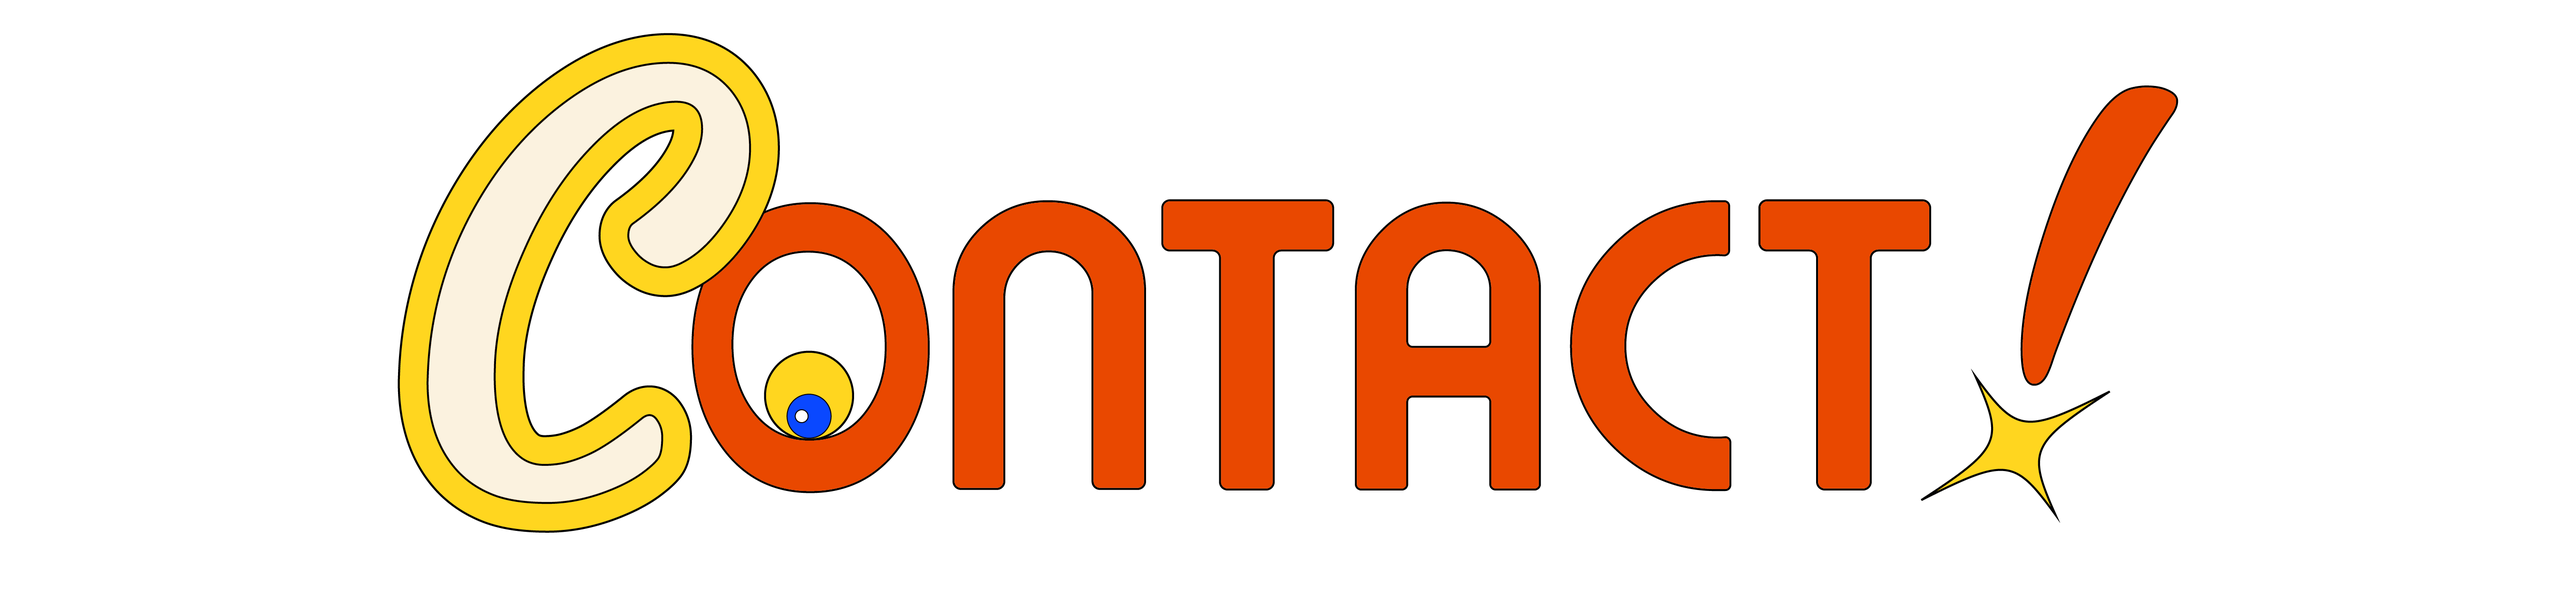
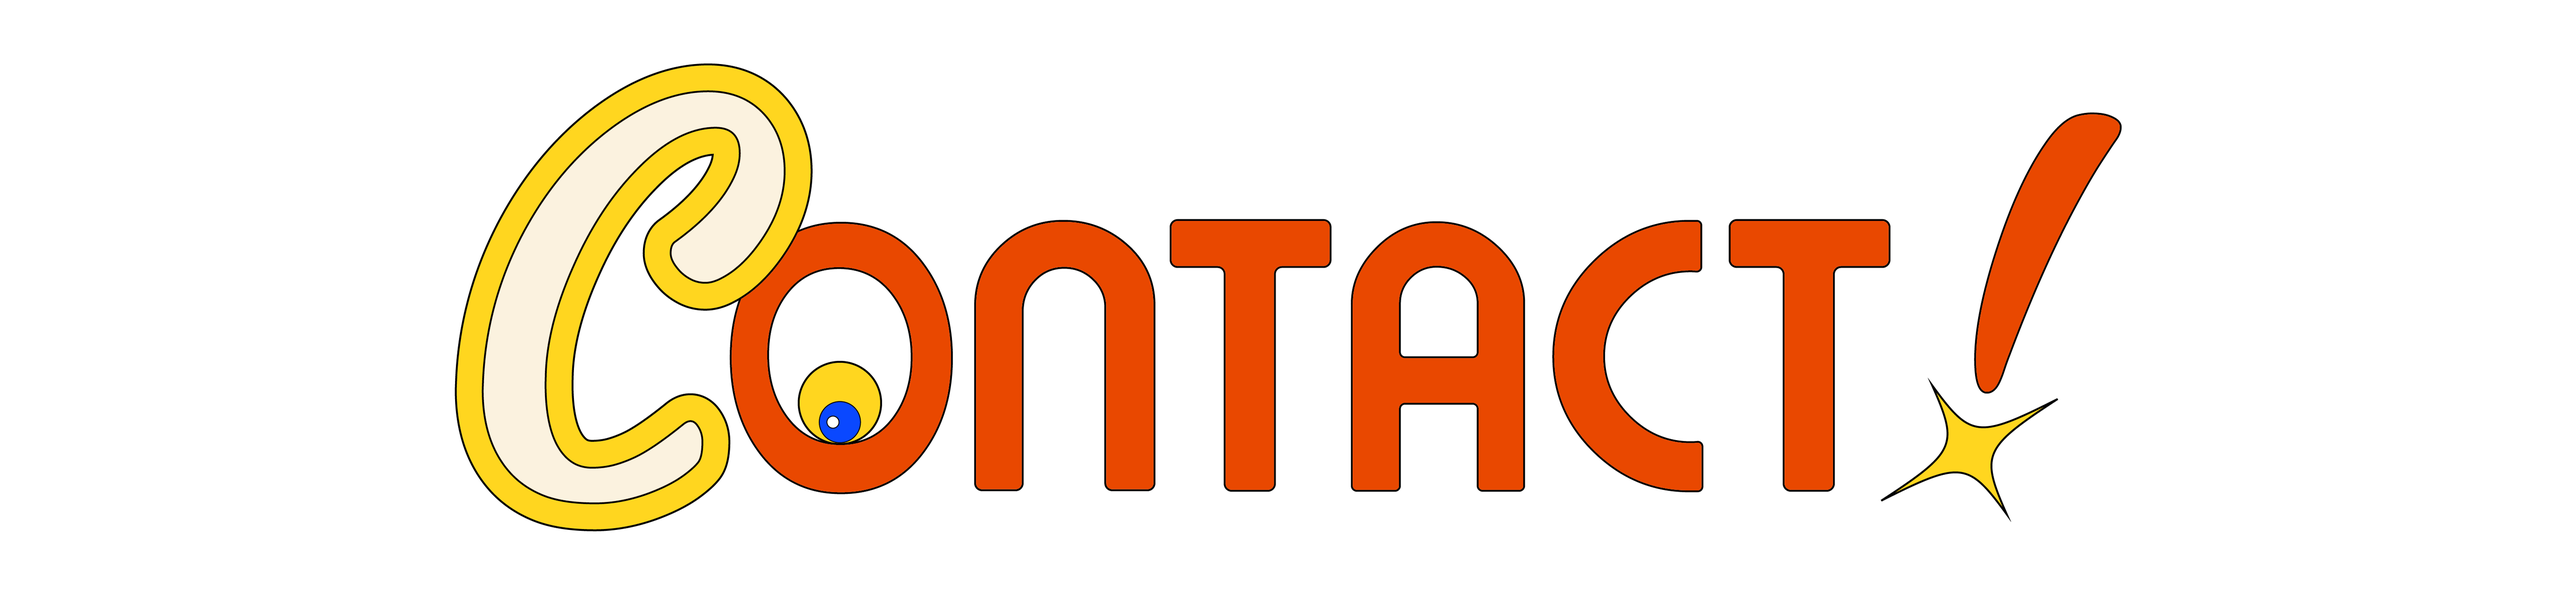
1

Changed region(s): [[0.156, 0.0312, 0.8423, 0.9041]]

diff --git a/contact/main.css b/contact/main.css
@@ -21,6 +21,7 @@ font-weight: 200;}
 img{
   max-width: 50%;
   align-items: center;
+  margin-top: -10px;
   /* animation: scale .9s infinite linear alternate; */
 
 }
@@ -78,6 +79,7 @@ border-radius: 4.8%;
   background-position: center center;
   background-size: contain;
   background-repeat: no-repeat;
+  margin-bottom: -20px;
 }
 
 .center {
